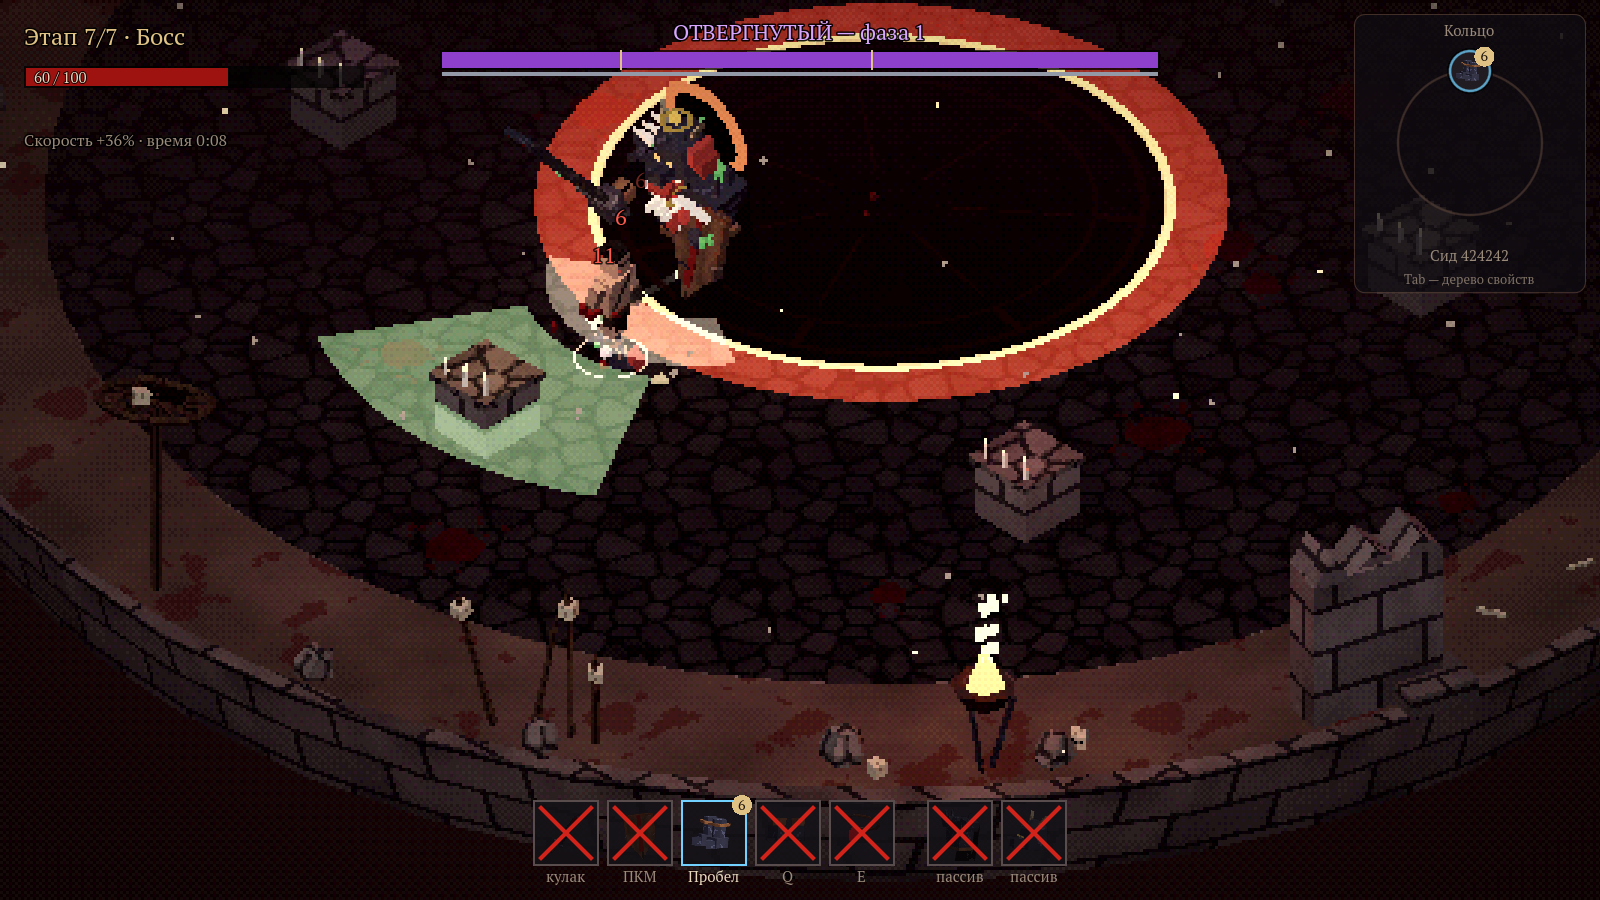
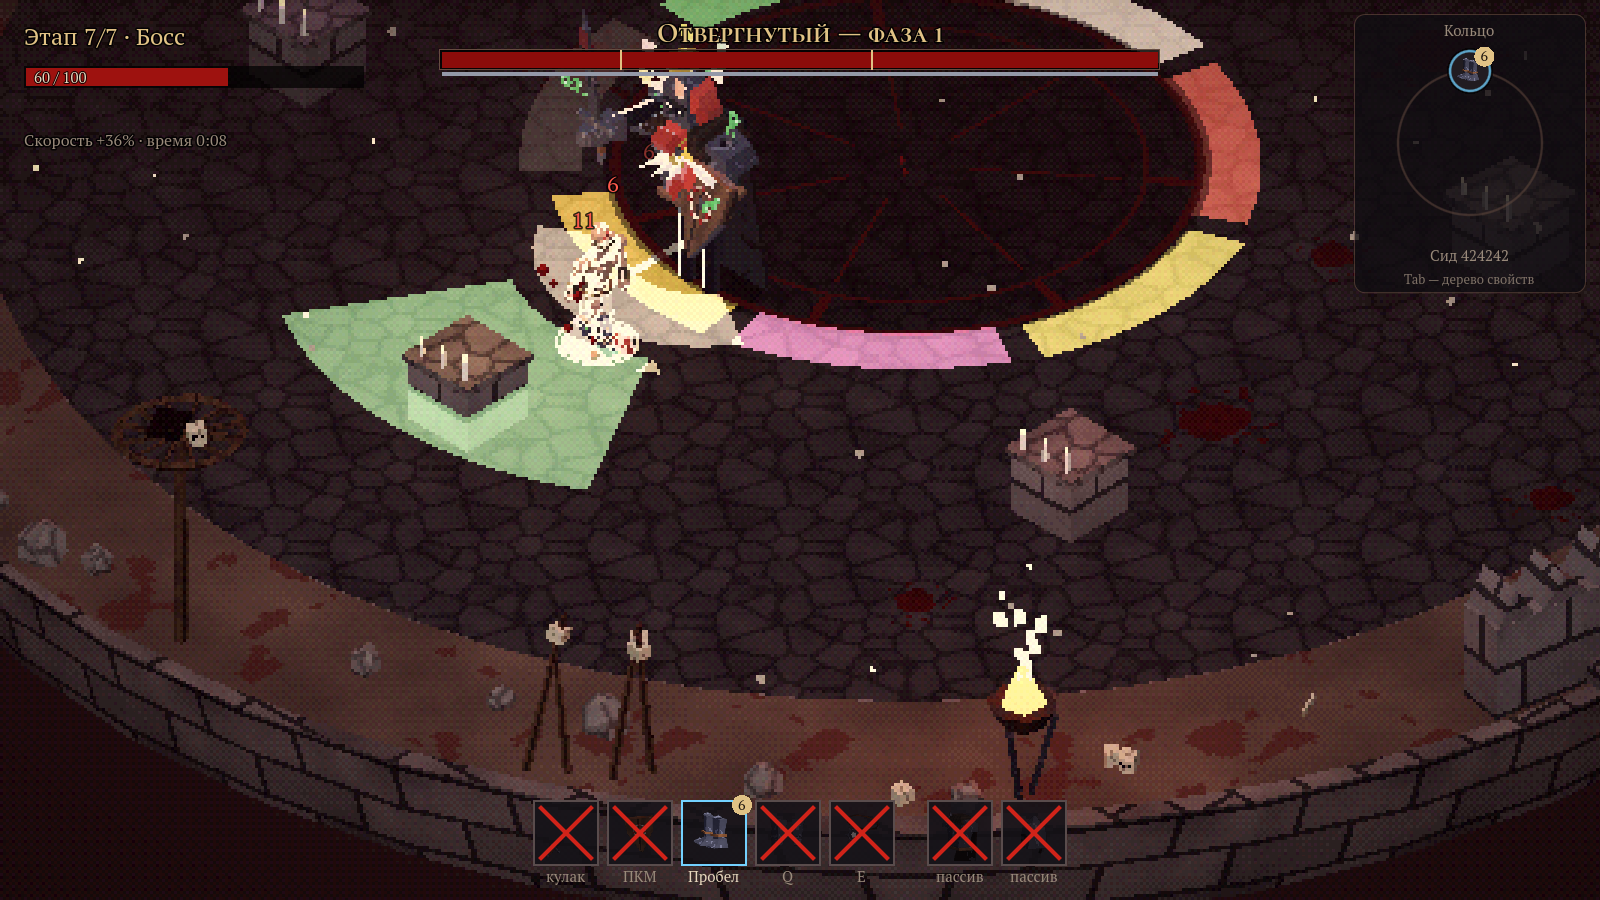
Docs: own-design motif and readability notes, refreshed screenshots

diff --git a/docs/DESIGN.md b/docs/DESIGN.md
@@ -26,7 +26,11 @@
 
 ## Визуальный стиль
 
-Гримдарк-фэнтези (вдохновлено «Берсерком», без копирования персонажей и символов) в двух ретро-режимах, переключаются F2, в меню и в паузе; выбор сохраняется в `user://settings.cfg`.
+Гримдарк-фэнтези: атмосфера жестокости при собственном дизайне, без цитат из чужих произведений. Два ретро-режима переключаются F2, в меню и в паузе; выбор сохраняется в `user://settings.cfg`.
+
+Свой мотив — **кольцо из семи**. В небе бледная треснувшая луна в кольце семи осколков. Над боссом корона из осколков цвета сущностей надетых им вещей; с каждой фазой осколки осыпаются. Пол арены босса — разбитое кольцо из семи сегментов тех же цветов. На щите героя нарисовано кольцо из семи, амулет — кольцо с семью зубьями.
+
+Модели собраны из гранёных форм: шести- и восьмигранные сужающиеся цилиндры, усечённые пирамиды, пирамиды, клинья, кристаллы (`LowPoly.convex`). Читаемость держится на контурном свете по силуэту (герой — тёплый, враги — холодный, элиты — золотой), свете вокруг героя и светлом приглушённом полу.
 
 - **PS1** — 270 строк по вертикали, дрожание вершин по сетке экрана, вершинное освещение, текстуры без фильтрации, 24 уровня цвета с дизерингом, без теней (пятна-тени под персонажами).
 - **PS2** — 450 строк, мягкая фильтрация, попиксельный свет и тени, свечение, зерно и лёгкие сканлайны.
